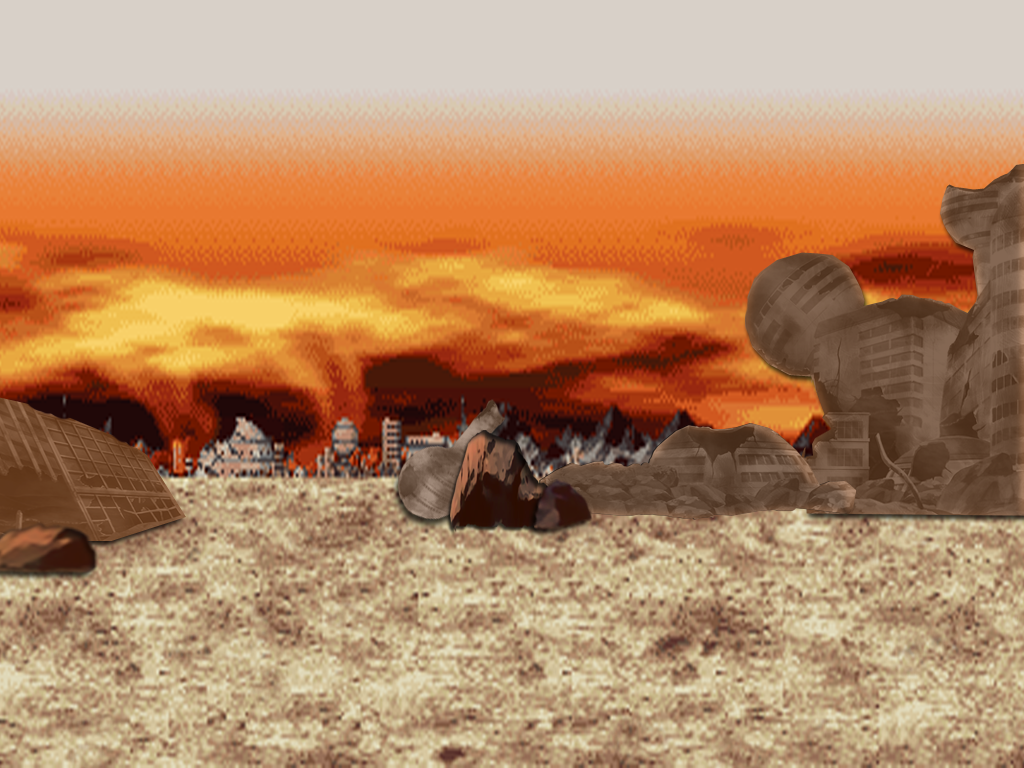
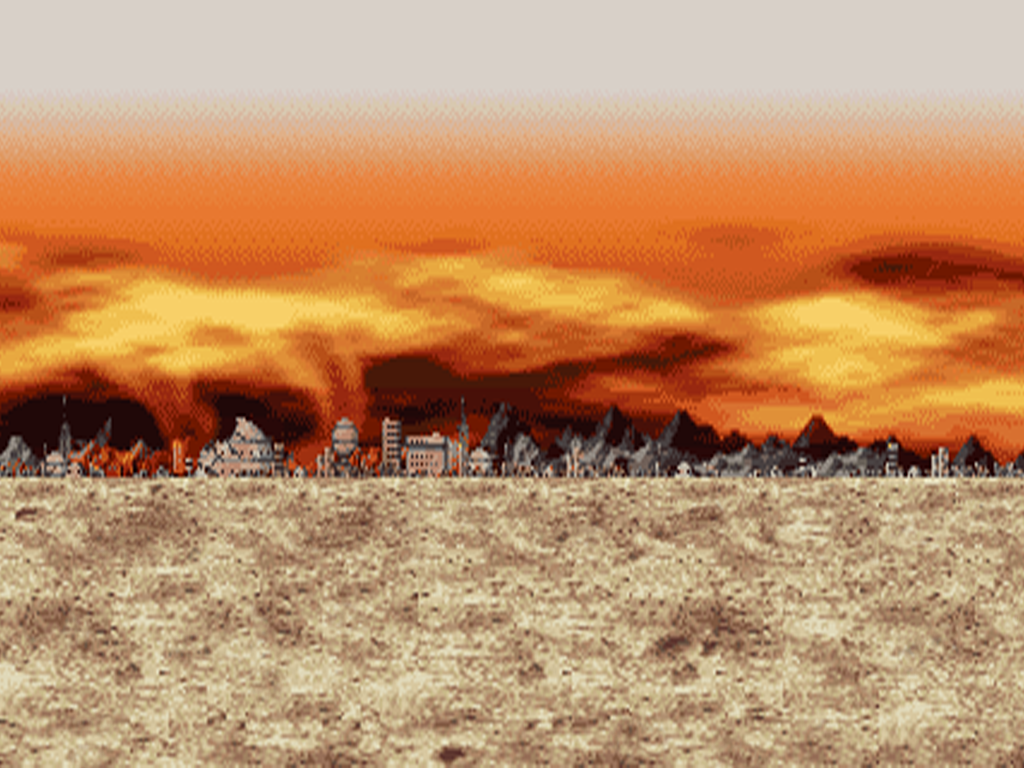
Small fix

Changed region(s): [[0.375, 0.2188, 1.0, 0.7188], [0.0, 0.5, 0.1875, 0.7812]]

diff --git a/hosted/game.js b/hosted/game.js
@@ -9743,7 +9743,7 @@ app.Environment = function () {
 
 			//Foreground of background
 			if (this.buildingActive == true) {
-				ctx.drawImage(this.cityForeground1, 0, 0);
+				ctx.drawImage(this.cityForeground2, 0, 0);
 			} else {
 				ctx.drawImage(this.cityForeground2, 0, 0);
 			}
@@ -22238,7 +22238,7 @@ app.main = (_app$main = {
 					this.fillText(ctx, "Smug", 560, 172, "15pt heavy_data", "yellow");
 				}
 			} else {
-				if (this.scene == 0 || this.gameState == this.GAME_STATE.TUTORIAL) {
+				if ((this.scene == 0 || this.gameState == this.GAME_STATE.TUTORIAL) && this.battle < 1) {
 					this.fillText(ctx, "Determined", 585, 172, "15pt heavy_data", "grey");
 				} else if (this.sceneNum == 1) {
 					this.fillText(ctx, "Arrogant", 575, 172, "15pt heavy_data", "grey");
@@ -22248,7 +22248,7 @@ app.main = (_app$main = {
 					this.fillText(ctx, "Murderous", 580, 172, "15pt heavy_data", "Red");
 				} else if (this.sceneNum == 4 && this.trueEnding == false) {
 					this.fillText(ctx, "Irritated", 575, 172, "15pt heavy_data", "grey");
-				} else if ((this.sceneNum == 4 || this.battle == 3) && this.trueEnding == true && this.sceneNum != 5) {
+				} else if ((this.sceneNum == 4 || this.battle == 3) && this.trueEnding == true) {
 					if (this.vegeta.superForm == false) {
 						this.fillText(ctx, "Homicidal", 580, 172, "15pt heavy_data", "red");
 					} else {
@@ -24211,7 +24211,35 @@ app.sound = function () {
 	}
 
 	function rewindEffect() {
+		effectAudio[28].currentTime = 0;
+		effectAudio[27].currentTime = 0;
+		effectAudio[26].currentTime = 0;
+		effectAudio[25].currentTime = 0;
+		effectAudio[24].currentTime = 0;
+		effectAudio[23].currentTime = 0;
+		effectAudio[22].currentTime = 0;
+		effectAudio[21].currentTime = 0;
+		effectAudio[20].currentTime = 0;
+		effectAudio[19].currentTime = 0;
+		effectAudio[18].currentTime = 0;
+		effectAudio[17].currentTime = 0;
+		effectAudio[16].currentTime = 0;
+		effectAudio[15].currentTime = 0;
+		effectAudio[14].currentTime = 0;
+		effectAudio[13].currentTime = 0;
+		effectAudio[12].currentTime = 0;
+		effectAudio[11].currentTime = 0;
+		effectAudio[10].currentTime = 0;
+		effectAudio[9].currentTime = 0;
+		effectAudio[8].currentTime = 0;
+		effectAudio[7].currentTime = 0;
+		effectAudio[6].currentTime = 0;
+		effectAudio[5].currentTime = 0;
+		effectAudio[4].currentTime = 0;
+		effectAudio[3].currentTime = 0;
+		effectAudio[2].currentTime = 0;
 		effectAudio[1].currentTime = 0;
+		effectAudio[0].currentTime = 0;
 	}
 
 	function pauseEffect() {

diff --git a/client/js/sound.js b/client/js/sound.js
@@ -584,7 +584,35 @@ app.sound = (function(){
 	}
 	
 	function rewindEffect(){
+		effectAudio[28].currentTime = 0;
+		effectAudio[27].currentTime = 0;
+		effectAudio[26].currentTime = 0;
+		effectAudio[25].currentTime = 0;
+		effectAudio[24].currentTime = 0;
+		effectAudio[23].currentTime = 0;
+		effectAudio[22].currentTime = 0;
+		effectAudio[21].currentTime = 0;
+		effectAudio[20].currentTime = 0;
+		effectAudio[19].currentTime = 0;
+		effectAudio[18].currentTime = 0;
+		effectAudio[17].currentTime = 0;
+		effectAudio[16].currentTime = 0;
+		effectAudio[15].currentTime = 0;
+		effectAudio[14].currentTime = 0;
+		effectAudio[13].currentTime = 0;
+		effectAudio[12].currentTime = 0;
+		effectAudio[11].currentTime = 0;
+		effectAudio[10].currentTime = 0;
+		effectAudio[9].currentTime = 0;
+		effectAudio[8].currentTime = 0;
+		effectAudio[7].currentTime = 0;
+		effectAudio[6].currentTime = 0;
+		effectAudio[5].currentTime = 0;
+		effectAudio[4].currentTime = 0;
+		effectAudio[3].currentTime = 0;
+		effectAudio[2].currentTime = 0;
 		effectAudio[1].currentTime = 0;
+		effectAudio[0].currentTime = 0;
 	}
 	
 	function pauseEffect(){

diff --git a/client/js/main.js b/client/js/main.js
@@ -9196,7 +9196,7 @@ app.main = {
 					this.fillText(ctx,"Smug", 560, 172, "15pt heavy_data", "yellow");
 				}
 			} else {
-				if(this.scene == 0 || this.gameState == this.GAME_STATE.TUTORIAL){
+				if((this.scene == 0 || this.gameState == this.GAME_STATE.TUTORIAL) && this.battle < 1){
 					this.fillText(ctx,"Determined", 585, 172, "15pt heavy_data", "grey");
 				} else if(this.sceneNum == 1){
 					this.fillText(ctx,"Arrogant", 575, 172, "15pt heavy_data", "grey");
@@ -9206,7 +9206,7 @@ app.main = {
 					this.fillText(ctx,"Murderous", 580, 172, "15pt heavy_data", "Red");
 				} else if(this.sceneNum == 4 && this.trueEnding == false){
 					this.fillText(ctx,"Irritated", 575, 172, "15pt heavy_data", "grey");
-				} else if((this.sceneNum == 4 || this.battle == 3) && this.trueEnding == true && this.sceneNum != 5){
+				} else if((this.sceneNum == 4 || this.battle == 3) && this.trueEnding == true){
 					if(this.vegeta.superForm == false){
 						this.fillText(ctx,"Homicidal", 580, 172, "15pt heavy_data", "red");
 					} else {

diff --git a/client/js/Environment.js b/client/js/Environment.js
@@ -1000,7 +1000,7 @@ app.Environment = (function(){
 			
 			//Foreground of background
 			if(this.buildingActive == true){
-				ctx.drawImage(this.cityForeground1,0,0);
+				ctx.drawImage(this.cityForeground2,0,0);
 			} else {
 				ctx.drawImage(this.cityForeground2,0,0);
 			}
